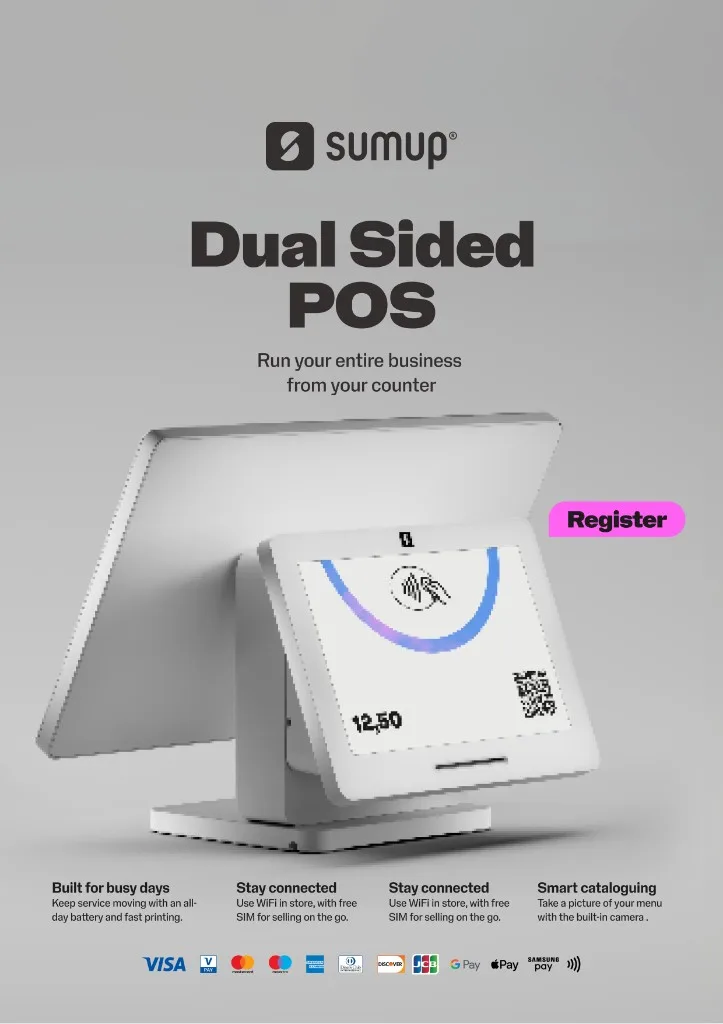
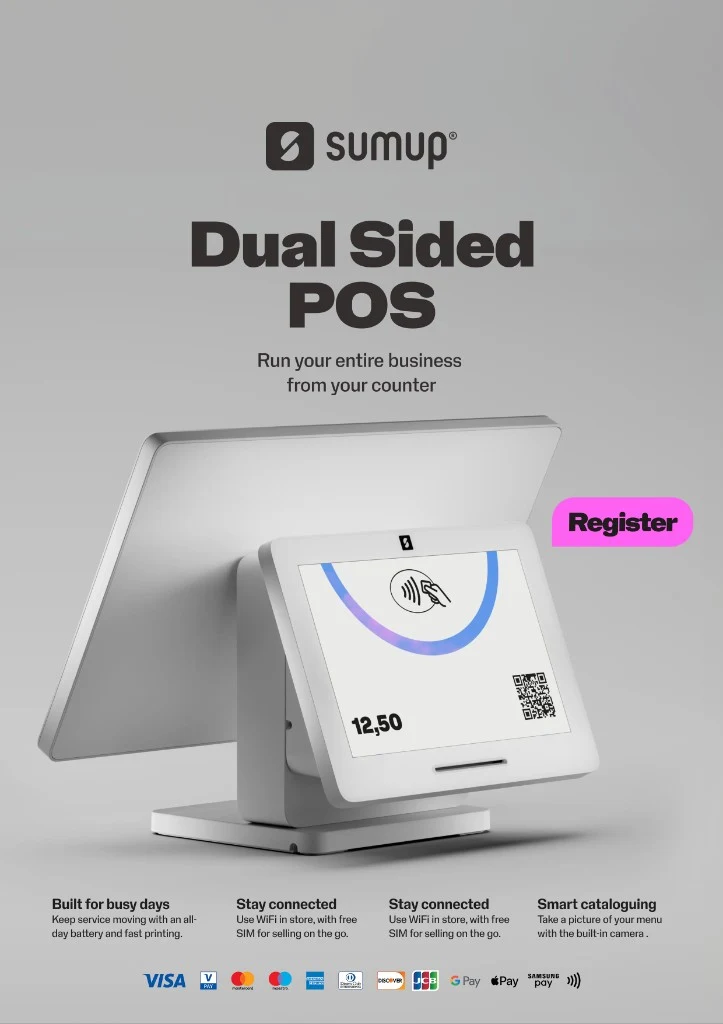
Fix SumUp teaser framing, single Dual Sided poster, earlier mobile video.

diff --git a/src/data/cases.js b/src/data/cases.js
@@ -8,22 +8,26 @@ export const cases = [
     role: "Senior Brand & Retail Designer (Freelance)",
     hideTitleTag: true,
     tags: ["SUMUP", "FINTECH", "RETAIL REBRAND", "BRAND DESIGN"],
-    description: "From the overall brand rebrand, we built a retail rebrand — one language for packaging, print and digital across 21 countries.",
+    description: "SumUp is rolling out a full brand rebrand — we built the retail layer: one language for packaging, print and digital across 21 countries.",
     challenge: "Packaging, print assets and digital touchpoints all needed to speak the same retail language, fast — across many formats and an external agency — as the first drop of a system that will keep forming over the next years. In parallel, new EU packaging rules (PPWR) meant packaging will look different soon; that work stays confidential.",
     process: "I owned the first drop: translating the master brand into a practical retail system — atoms, a shared grid, three composition levels and a ten-step production flow — so the retail team and agency could produce on-brand packaging, flyers and digital assets without starting from scratch each time. I also consulted on PPWR packaging implications, without sharing those outcomes here.",
     impact: "A coherent first retail layer across packaging, OOH, trade fairs and Amazon in 21 countries — strong enough to ship now, open enough for the brand (and packaging) to evolve.",
     learning: "A first drop should lock the language, not freeze the brand.",
-    image: "/images/02_sumup-retail-rebrand/sumup-teaser-register.webp",
-    mobileImage: "/images/02_sumup-retail-rebrand/sumup-teaser-register.webp",
+    image: "/images/02_sumup-retail-rebrand/sumup-teaser-register-v2.webp",
+    // Mobile hero: not Dual Sided (teaser stays home-slider only)
+    mobileImage: "/images/02_sumup-retail-rebrand/sumup-colour-hierarchy.webp",
     detailImage1: "/images/02_sumup-retail-rebrand/sumup-colour-hierarchy.webp",
     detailImage2: "/images/02_sumup-retail-rebrand/sumup-retail-brand-guidelines.webp",
     detailImage3: "/images/02_sumup-retail-rebrand/sumup-digital-retail-system.webp",
+    // Single Dual Sided POS in content (your Group export)
     detailImage4: "/images/02_sumup-retail-rebrand/sumup-dual-sided-pos-poster.webp",
     detailImage5: "/images/02_sumup-retail-rebrand/sumup-handheld-pos-packaging-blurred.webp",
     detailVideo1: "/images/02_sumup-retail-rebrand/sumup-amazon-storefront-loop.mp4",
     detailVideo1Poster: "/images/02_sumup-retail-rebrand/sumup-amazon-storefront-poster.webp",
-    // Teaser Register is slider-only; desktop collage uses the other Dual-sided POS poster
+    // Teaser Register is slider-only
     hideDesktopHero: true,
+    // Mobile: Amazon video after guidelines, before digital/poster/packaging
+    mobileVideoEarly: true,
     darkImages: [
       "/images/02_sumup-retail-rebrand/sumup-digital-retail-system.webp",
     ],

diff --git a/src/pages/MobileCaseView.jsx b/src/pages/MobileCaseView.jsx
@@ -309,8 +309,8 @@ const MobileCaseView = ({ caseItem }) => {
             </FadeUp>
           )}
 
-          {/* Context Image - Visual hook after intro */}
-          {caseItem.detailImage1 && (
+          {/* Context Image - Visual hook after intro (skip if same as mobile hero) */}
+          {caseItem.detailImage1 && caseItem.detailImage1 !== heroImage && (
             <FadeUp className="space-y-[0.1875rem] snap-start">
               {renderMedia(
                 caseItem.id === 6 ? caseItem.detailImageMobile1 : caseItem.detailImage1, 
@@ -341,6 +341,13 @@ const MobileCaseView = ({ caseItem }) => {
                 "Challenge Visual", 
                 "grayscale hover:grayscale-0 transition-all duration-700"
               )}
+            </FadeUp>
+          )}
+
+          {/* Early video (e.g. SumUp Amazon) — after guidelines, before remaining visuals */}
+          {caseItem.mobileVideoEarly && caseItem.detailVideo1 && (
+            <FadeUp className="space-y-[0.1875rem] snap-start">
+              {renderMedia(caseItem.detailVideo1, "Video Demo", "", caseItem.detailVideo1Poster)}
             </FadeUp>
           )}
 
@@ -392,8 +399,8 @@ const MobileCaseView = ({ caseItem }) => {
             </FadeUp>
           )}
 
-          {/* Video 1 - Show solution in action (after supporting images, before OUTCOME) */}
-          {caseItem.detailVideo1 && (
+          {/* Video 1 - default placement (skipped when mobileVideoEarly already showed it) */}
+          {caseItem.detailVideo1 && !caseItem.mobileVideoEarly && (
             <FadeUp className="space-y-[0.1875rem] snap-start">
               {renderMedia(caseItem.detailVideo1, "Video Demo", "", caseItem.detailVideo1Poster)}
             </FadeUp>
